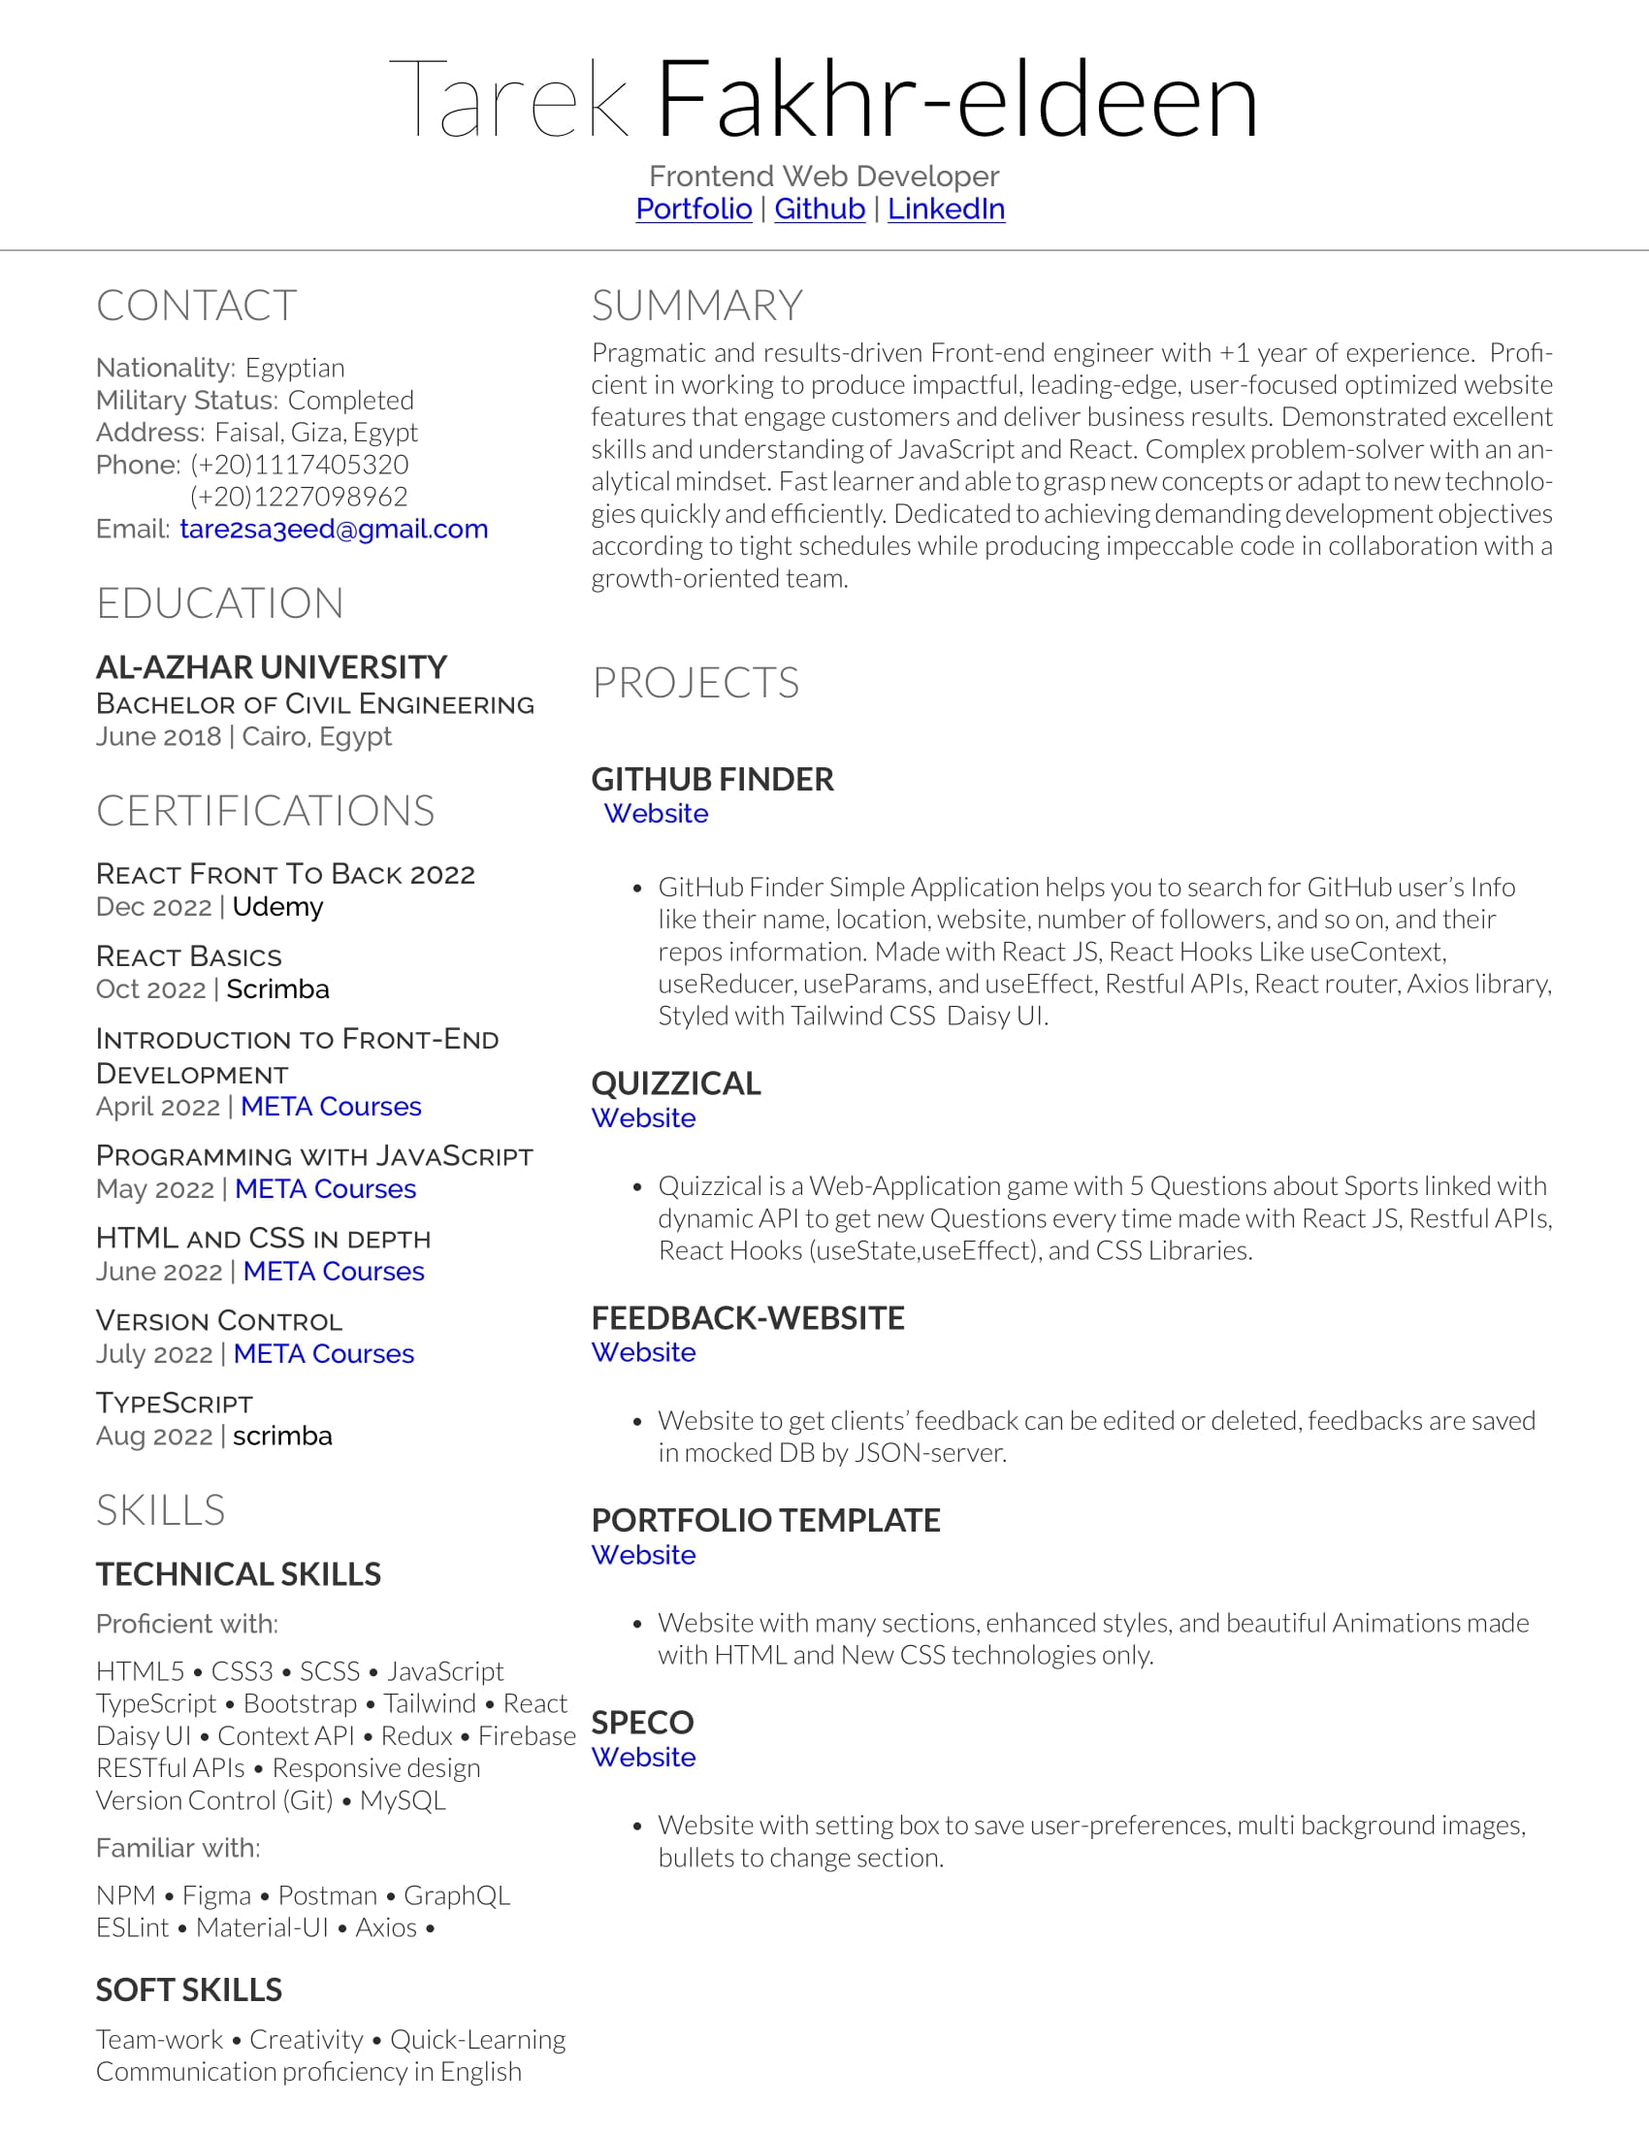
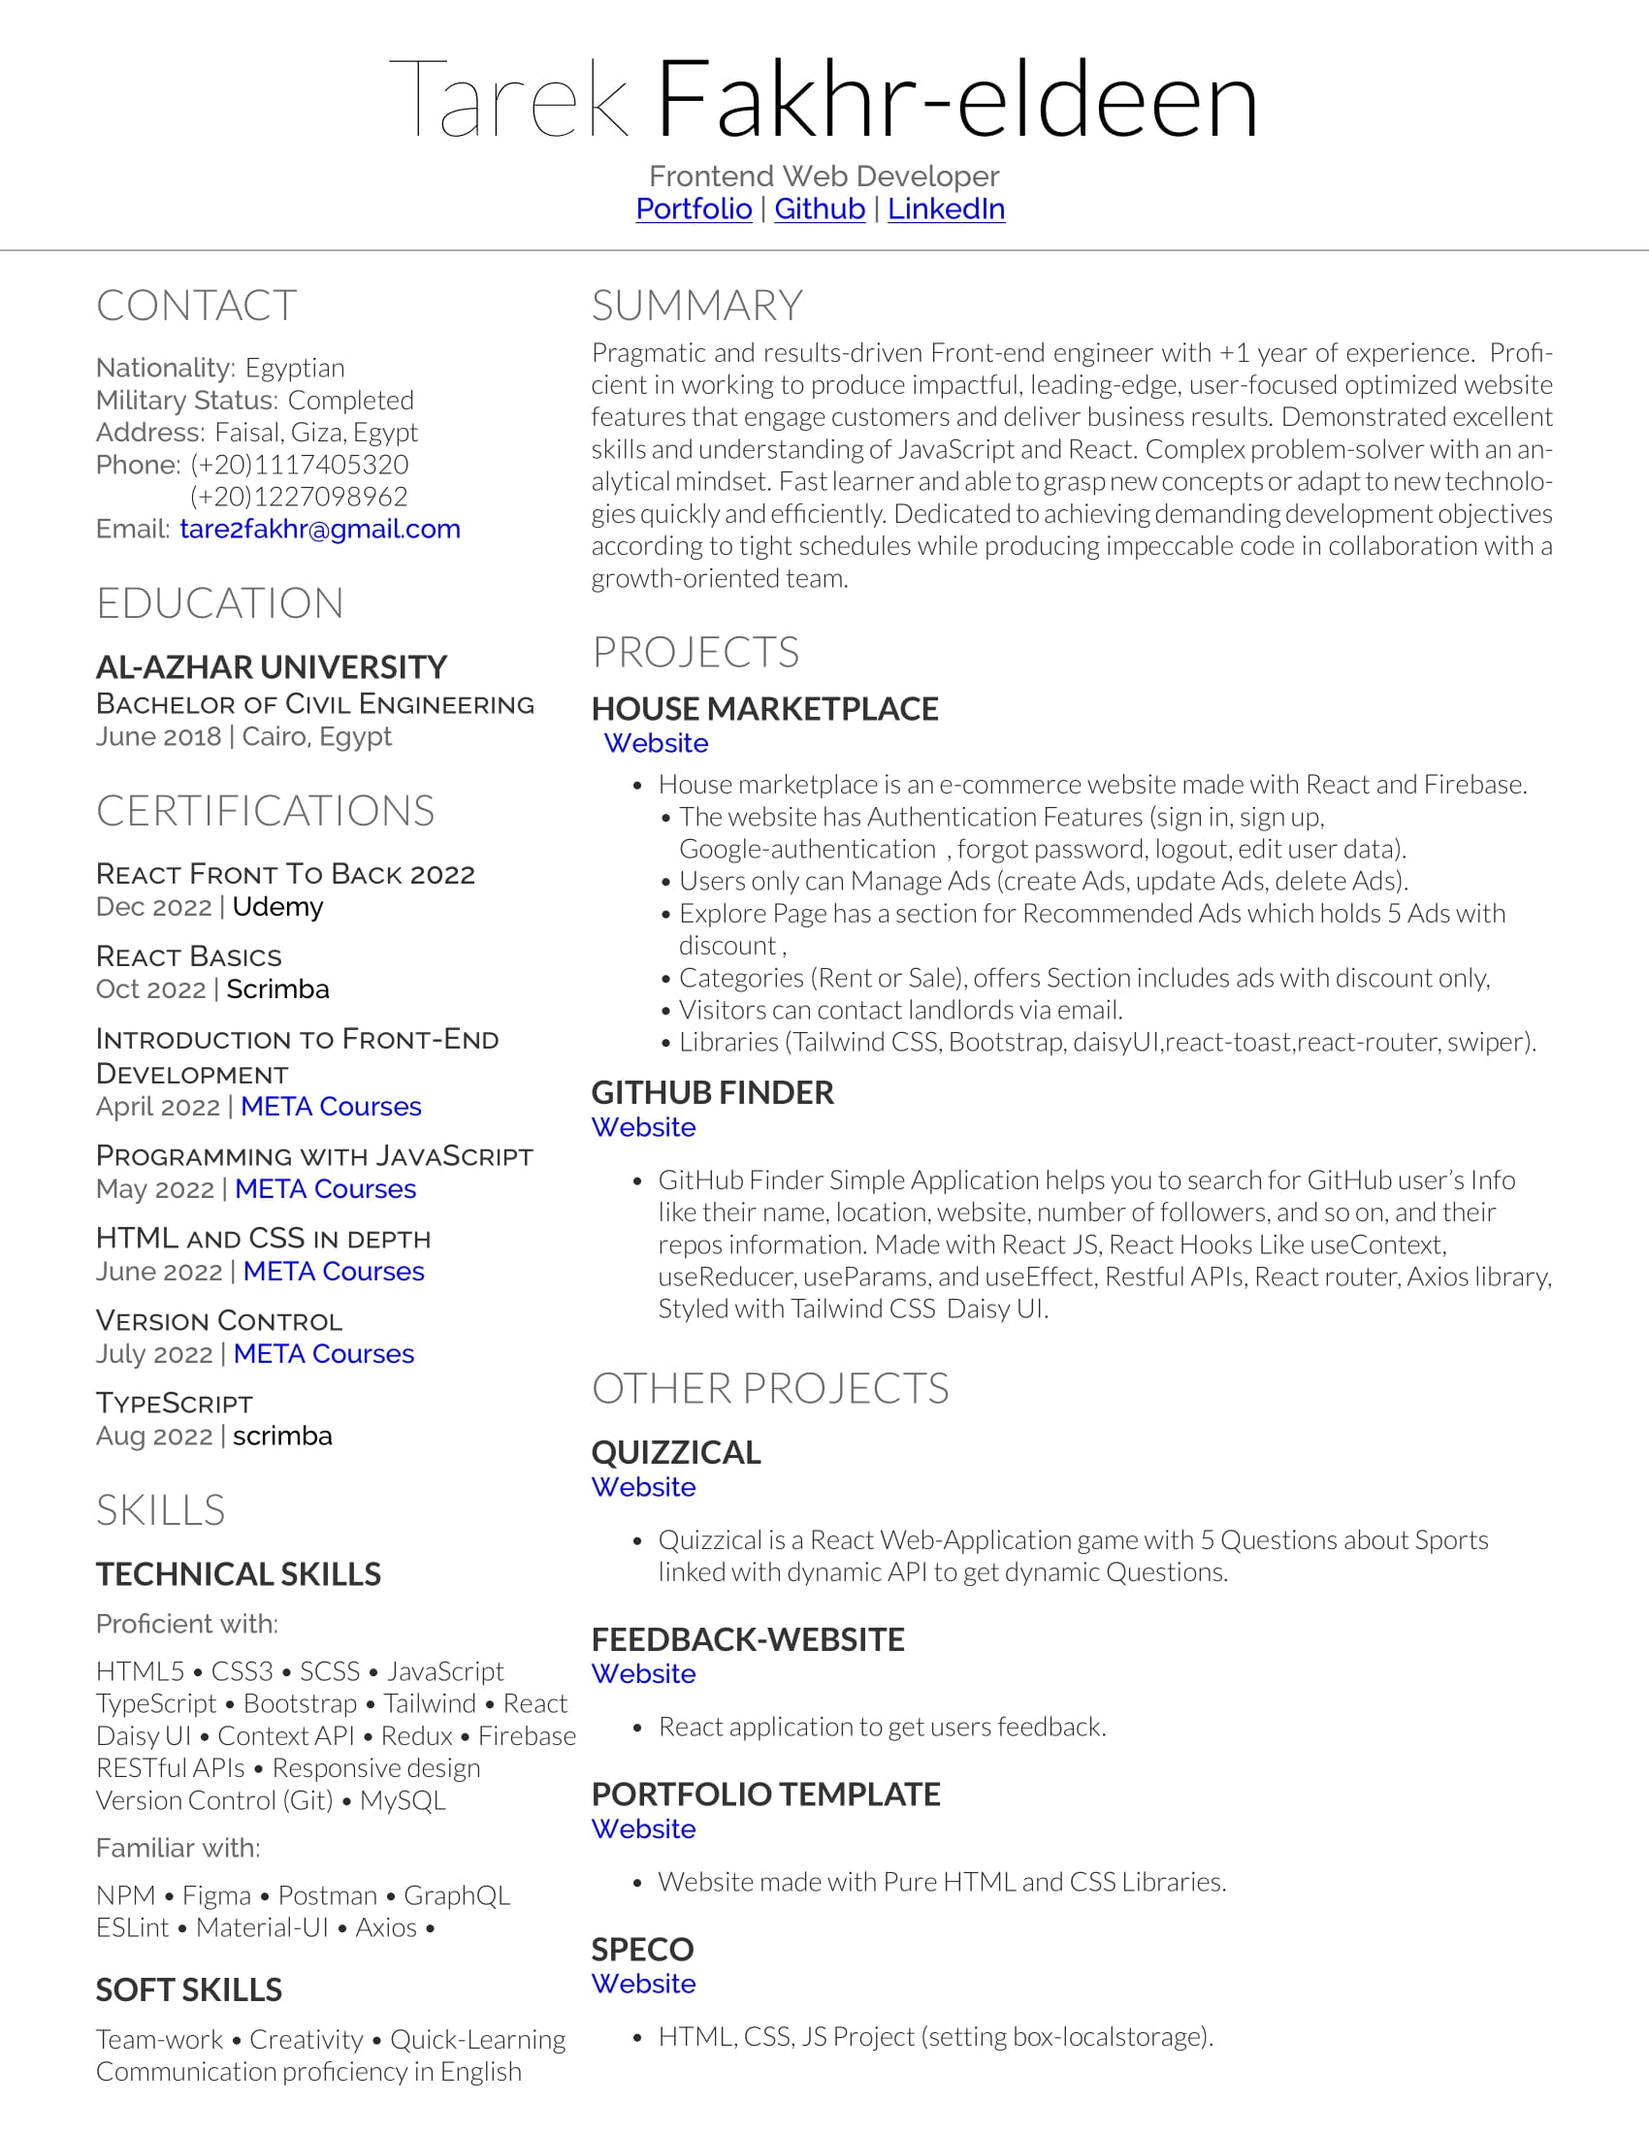
newdata

Changed region(s): [[0.3429, 0.3091, 0.9353, 0.9582], [0.1559, 0.2473, 0.2806, 0.2782]]

diff --git a/index.html b/index.html
@@ -268,61 +268,93 @@
             <div class="container">
                 <div class=" wow fadeInUp" data-wow-delay="0.1s">
                     <div class="col-lg-6">
-                        <h1 class="display-5 mb-0 text-primary underline decoration-current decoration-8 ">My Projects</h1>
+                        <h1 class="display-5 mb-0 text-primary underline decoration-current decoration-8 ">My Projects
+                        </h1>
                     </div>
                 </div>
-                                        <!-- new cards -->
-                  <div class="wow gap-4 fadeInUp" data-wow-delay="0.1s">
-                    <div class="wow fadeInUp cards mx-auto my-16"
-                    data-wow-delay="0.1s">
-                    <div class="card  glassy lg:card-side mb-16 ">
-                        <figure class="card-img-holder "><img src="./img/projects/github.PNG" alt="project 1" /></figure>
-                        <div class="card-body">
-                        <h2 class="card-title text-secondary underline decoration-current decoration-4 underline-offset-8 mb-4">GitHub Finder</h2>
-                        <p class="text-neutral">GitHub Finder Simple Application helps you to search for GitHub
-                            users Info like his name, location, website, number of follwers and so on and his repos information. <br> 
-                            Made with React JS, React Hooks Like useContext, useReducer, useParams, and useEffect, 
-                            Restful APIs, React router, Axios library, Styled with Tailwind CSS & Daisy UI.</p>
-                        <div class="card-actions justify-end">
-                            <a href="https://github-finder-three-khaki.vercel.app/" target="_blank"
-                            rel="noreferrer"><button class="btn btn-warning">Visit</button></a>
-                        <a href="https://github.com/TarekSaeed95/Github-finder" target="_blank"
-                            rel="noreferrer"><button
-                                class="btn btn-secondry text-slate-200">GitHub</button></a>
+                <!-- new cards -->
+                <div class="wow gap-4 fadeInUp" data-wow-delay="0.1s">
+                    <div class="wow fadeInUp cards mx-auto my-16" data-wow-delay="0.1s">
+                        <div class="card  glassy lg:card-side  mb-16">
+                            <div class="card-body order-1 lg:order-0">
+                                <h2
+                                    class="card-title text-secondary underline decoration-current decoration-4 underline-offset-8 mb-4">
+                                    
+                                        House-Marketplace</h2>
+                                <p class="text-neutral">House marketplace is an e-commerce website made with React and Firebase.<br/>
+                                    The website has Authentication Features (sign in, sign up, Google authentication, forgot password, logout, edit user data). <br/>
+                                    Users only can Manage Ads (create Ads, update Ads, delete Ads). <br/>
+                                    Explore Page has a section for Recommended Ads which holds 5 Ads with discount, <br/>
+                                    Categories (Rent or Sale), offers Section includes ads with discount only, <br/>
+                                    Visitors can contact landlords via email. <br/>
+                                    Libraries (Tailwind CSS, Bootstrap, daisyUI,react-toast,react-router, swiper). <br/>
+                                </p>
+                                <FaThumbsUp class="inline" />
+                                <div class="card-actions justify-end">
+                                    <a href="https://house-marketplace-delta.vercel.app/" target="_blank" rel="noreferrer"><button
+                                            class="btn btn-warning">Visit</button></a>
+                                    <a href="https://github.com/TarekSaeed95/House-Marketplace" target="_blank"
+                                        rel="noreferrer"><button
+                                            class="btn btn-secondry hover:text-white text-white">GitHub</button></a>
+                                </div>
+                            </div>
+                            <figure class="order-0 lg:order-1 card-img-holder"><img src="./img/projects/house-market.jpeg"
+                                    alt="project 3" /></figure>
                         </div>
+
+                        <div class="card  glassy lg:card-side  ">
+                            <figure class="card-img-holder "><img src="./img/projects/github.PNG" alt="project 1" />
+                            </figure>
+                            <div class="card-body">
+                                <h2
+                                    class="card-title text-secondary underline decoration-current decoration-4 underline-offset-8 mb-4">
+                                    GitHub Finder</h2>
+                                <p class="text-neutral">GitHub Finder Simple Application helps you to search for GitHub
+                                    users Info like his name, location, website, number of follwers and so on and his
+                                    repos information. <br>
+                                    Made with React JS, React Hooks Like useContext, useReducer, useParams, and
+                                    useEffect,
+                                    Restful APIs, React router, Axios library, Styled with Tailwind CSS & Daisy UI.</p>
+                                <div class="card-actions justify-end">
+                                    <a href="https://github-finder-three-khaki.vercel.app/" target="_blank"
+                                        rel="noreferrer"><button class="btn btn-warning">Visit</button></a>
+                                    <a href="https://github.com/TarekSaeed95/Github-finder" target="_blank"
+                                        rel="noreferrer"><button
+                                            class="btn btn-secondry hover:text-white text-white">GitHub</button></a>
+                                </div>
+                            </div>
                         </div>
                     </div>
-                    <div class="card  glassy lg:card-side  ">
-                        <div class="card-body order-1 lg:order-0">
-                        <h2 class="card-title text-secondary underline decoration-current decoration-4 underline-offset-8 mb-4">Quizzical</h2>
-                        <p class="text-neutral">Quizzical is Web-Application game with 5 Questions about Sports
-                            linked with dynamic API to get new Questions every time
-                            made with React JS, Restful APIs, React Hooks (useState,useEffect) and CSS Libraries.</p>
-                            <FaThumbsUp class="inline" />
-                        <div class="card-actions justify-end">
-                            <a href="https://quzzical.vercel.app/" target="_blank" rel="noreferrer"><button
-                                class="btn btn-warning">Visit</button></a>
-                        <a href="https://github.com/TarekSaeed95/Quzzical" target="_blank"
-                            rel="noreferrer"><button
-                                class="btn btn-secondry text-slate-200">GitHub</button></a>
-                        </div>
-                        </div>
-                        <figure class="order-0 lg:order-1 card-img-holder"><img src="./img/projects/Quizzical.PNG" alt="project 3" /></figure>
+                </div>
+                <!-- new cards -->
+                <div class=" wow fadeInUp" data-wow-delay="0.1s">
+                    <div class="">
+                        <h2 class=" glassy py-10 px-8 m-auto w-fit  display-5  text-center  text-primary ">Other
+                            Projects</h2>
                     </div>
-                    </div>
-                  </div>
-                                        <!-- new cards -->
-                                        <div class=" wow fadeInUp" data-wow-delay="0.1s">
-                                            <div class="">
-                                                <h2 class=" glassy py-10 px-8 m-auto w-fit  display-5  text-center  text-primary ">Other Projects</h2>
-                                            </div>
-                                        </div>
+                </div>
                 <div class="wow gap-4 fadeInUp" data-wow-delay="0.1s">
                     <div class="wow fadeInUp cards mx-auto my-16 grid grid-cols-1 gap-8 md:grid-cols-2 xl:grid-cols-3 justify-items-center  "
                         data-wow-delay="0.1s">
                         <div class="card card-other compact  max-w-sm bg-gray-900 shadow-2xl">
-                            <figure 
-                            ><img src="./img/projects/Feedback.PNG" alt="project 2" /></figure>
+                            <figure><img src="./img/projects/Quizzical.PNG" alt="project 2" /></figure>
+                            <div class="card-body ">
+                                <h2 class="card-title text-slate-200">Quizzical</h2>
+                                <p class="text-gray-500">Quizzical is Web-Application game with 5 Questions about Sports
+                                    linked with dynamic API to get new Questions every time
+                                    made with React JS, Restful APIs, React Hooks (useState,useEffect) and CSS
+                                    Libraries.</p>
+                                <div class="card-actions justify-end">
+                                    <a href="https://quzzical.vercel.app/" target="_blank"
+                                        rel="noreferrer"><button class="btn btn-warning">Visit</button></a>
+                                    <a href="https://github.com/TarekSaeed95/Quzzical" target="_blank"
+                                        rel="noreferrer"><button
+                                            class="btn  hover:text-slate-200 text-white">GitHub</button></a>
+                                </div>
+                            </div>
+                        </div>
+                        <div class="card card-other compact  max-w-sm bg-gray-900 shadow-2xl">
+                            <figure><img src="./img/projects/Feedback.PNG" alt="project 2" /></figure>
                             <div class="card-body ">
                                 <h2 class="card-title text-slate-200">Feedback-website</h2>
                                 <p class="text-gray-500">Website to get clients feedbacks can be edited or
@@ -333,7 +365,7 @@
                                         rel="noreferrer"><button class="btn btn-warning">Visit</button></a>
                                     <a href="https://github.com/TarekSaeed95/Feedback-website" target="_blank"
                                         rel="noreferrer"><button
-                                            class="btn btn-secondry text-slate-200">GitHub</button></a>
+                                            class="btn hover:text-slate-200 text-slate-200">GitHub</button></a>
                                 </div>
                             </div>
                         </div>
@@ -349,7 +381,7 @@
                                         rel="noreferrer"><button class="btn btn-warning">Visit</button></a>
                                     <a href="https://github.com/TarekSaeed95/Portfolio" target="_blank"
                                         rel="noreferrer"><button
-                                            class="btn btn-secondry text-slate-200">GitHub</button></a>
+                                            class="btn  hover:text-slate-200 text-slate-200">GitHub</button></a>
                                 </div>
                             </div>
                         </div>
@@ -365,7 +397,7 @@
                                         rel="noreferrer"><button class="btn btn-warning">Visit</button></a>
                                     <a href="https://github.com/TarekSaeed95/Speco-template" target="_blank"
                                         rel="noreferrer"><button
-                                            class="btn btn-secondry text-slate-200">GitHub</button></a>
+                                            class="btn  hover:text-slate-200 text-slate-200">GitHub</button></a>
                                 </div>
                             </div>
                         </div>
@@ -411,8 +443,8 @@
                                     <a href="https://www.linkedin.com/in/tarek-saeeed/" rel='noreferrer'
                                         class="linkedin text-xl" target="_blank"><i
                                             class="fa-brands fa-linkedin"></i></a>
-                                    <a href="https://github.com/TarekSaeed95" rel='noreferrer'
-                                        class="github text-xl" target="_blank"><i class="fa-brands fa-github"></i></a>
+                                    <a href="https://github.com/TarekSaeed95" rel='noreferrer' class="github text-xl"
+                                        target="_blank"><i class="fa-brands fa-github"></i></a>
                                 </div>
                             </div>
                         </div>
